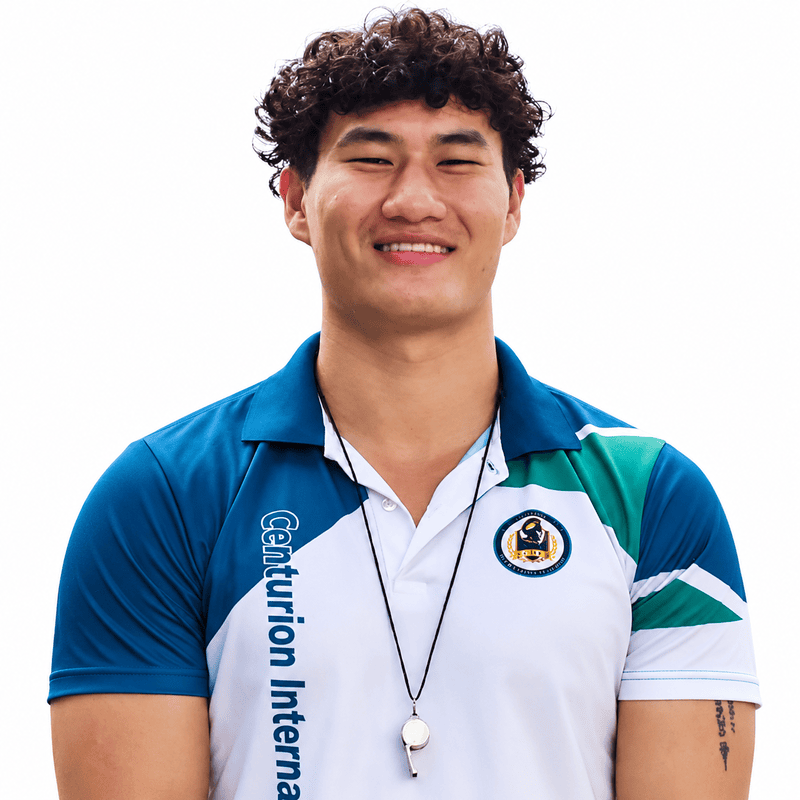
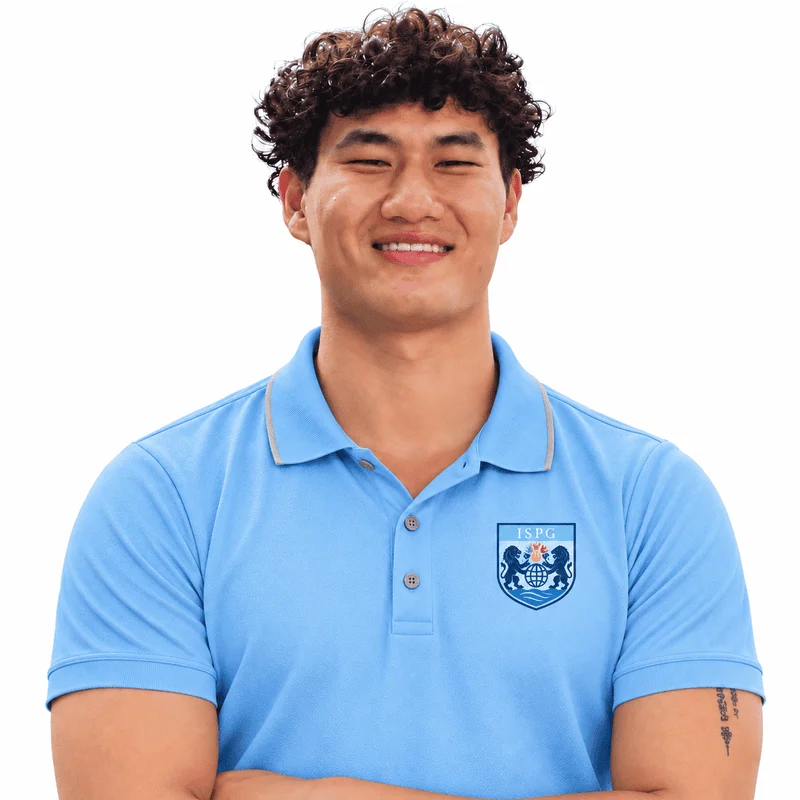
Swap in the new studio portraits for four teachers
Christine, Nonku, Nargiz and Kittipong now have the same white-background
polo shot as the rest of the staff, so the grid reads as one set instead
of a mix of sources.

The three with profiles had a separate wider hero shot for the modal;
those are gone, and the modal reuses the new portrait the way Ian's
entry already did. It suits the square modal photo box better than the
old crops did.

diff --git a/src/data/teachers.ts b/src/data/teachers.ts
@@ -101,7 +101,7 @@ export const teachers: Teacher[] = [
     role: 'Homeroom Teacher, Year 1',
     department: 'Primary',
     photo: '/media/teachers/christine-portrait.webp',
-    photoHero: '/media/teachers/christine-hero.webp',
+    photoHero: '/media/teachers/christine-portrait.webp',
     bio: 'Originally from South Africa, Christine brings almost seven years of experience teaching in the Foundation Phase. She is passionate about differentiated teaching and believes every child learns in a unique way — getting to know each learner individually so she can adapt her teaching to meet their needs. Her classrooms are safe and supportive, filled with hands-on experiences that build curiosity, confidence and a lifelong love of learning.',
     quote: 'I look forward to meeting all of our pupils and families and creating a classroom where every child feels valued, encouraged and excited to learn.',
     quoteLabel: 'A message to our community',
@@ -131,7 +131,7 @@ export const teachers: Teacher[] = [
     role: 'Homeroom Teacher, Year 4',
     department: 'Primary',
     photo: '/media/teachers/nonku-portrait.webp',
-    photoHero: '/media/teachers/nonku-hero.webp',
+    photoHero: '/media/teachers/nonku-portrait.webp',
     bio: 'Originally from South Africa, Nonku brings eight years of teaching experience across South Africa, Vietnam and Thailand. She holds a bachelor’s degree from the University of Pretoria, a 120-hour TEFL qualification, and training in Early Childhood Education and Montessori. Nonku is passionate about building positive, inclusive classrooms where children feel confident and supported, and values helping pupils grow in independence while discovering their individual strengths.',
     quote: 'I am excited to meet you all and have a successful year.',
     quoteLabel: 'A message to our community',
@@ -161,7 +161,7 @@ export const teachers: Teacher[] = [
     role: 'ESL Support',
     department: 'Specialist',
     photo: '/media/teachers/nargiz-portrait.webp',
-    photoHero: '/media/teachers/nargiz-hero.webp',
+    photoHero: '/media/teachers/nargiz-portrait.webp',
     bio: `Originally from Azerbaijan, Nargiz brings extensive experience in leadership and school development, having worked with ${cam('Cambridge International, the British National Curriculum and the International Baccalaureate', 'the British National Curriculum and the International Baccalaureate')}. She completed official Read Write Inc. phonics training in England and is currently completing her Master of Education with Liverpool John Moores University — combining strong problem-solving skills with a collaborative approach to inspire curiosity in every learner.`,
     quote: 'When children feel happy, supported, and encouraged, they develop the confidence to achieve more than they ever imagined.',
     quoteLabel: 'My philosophy is simple',
